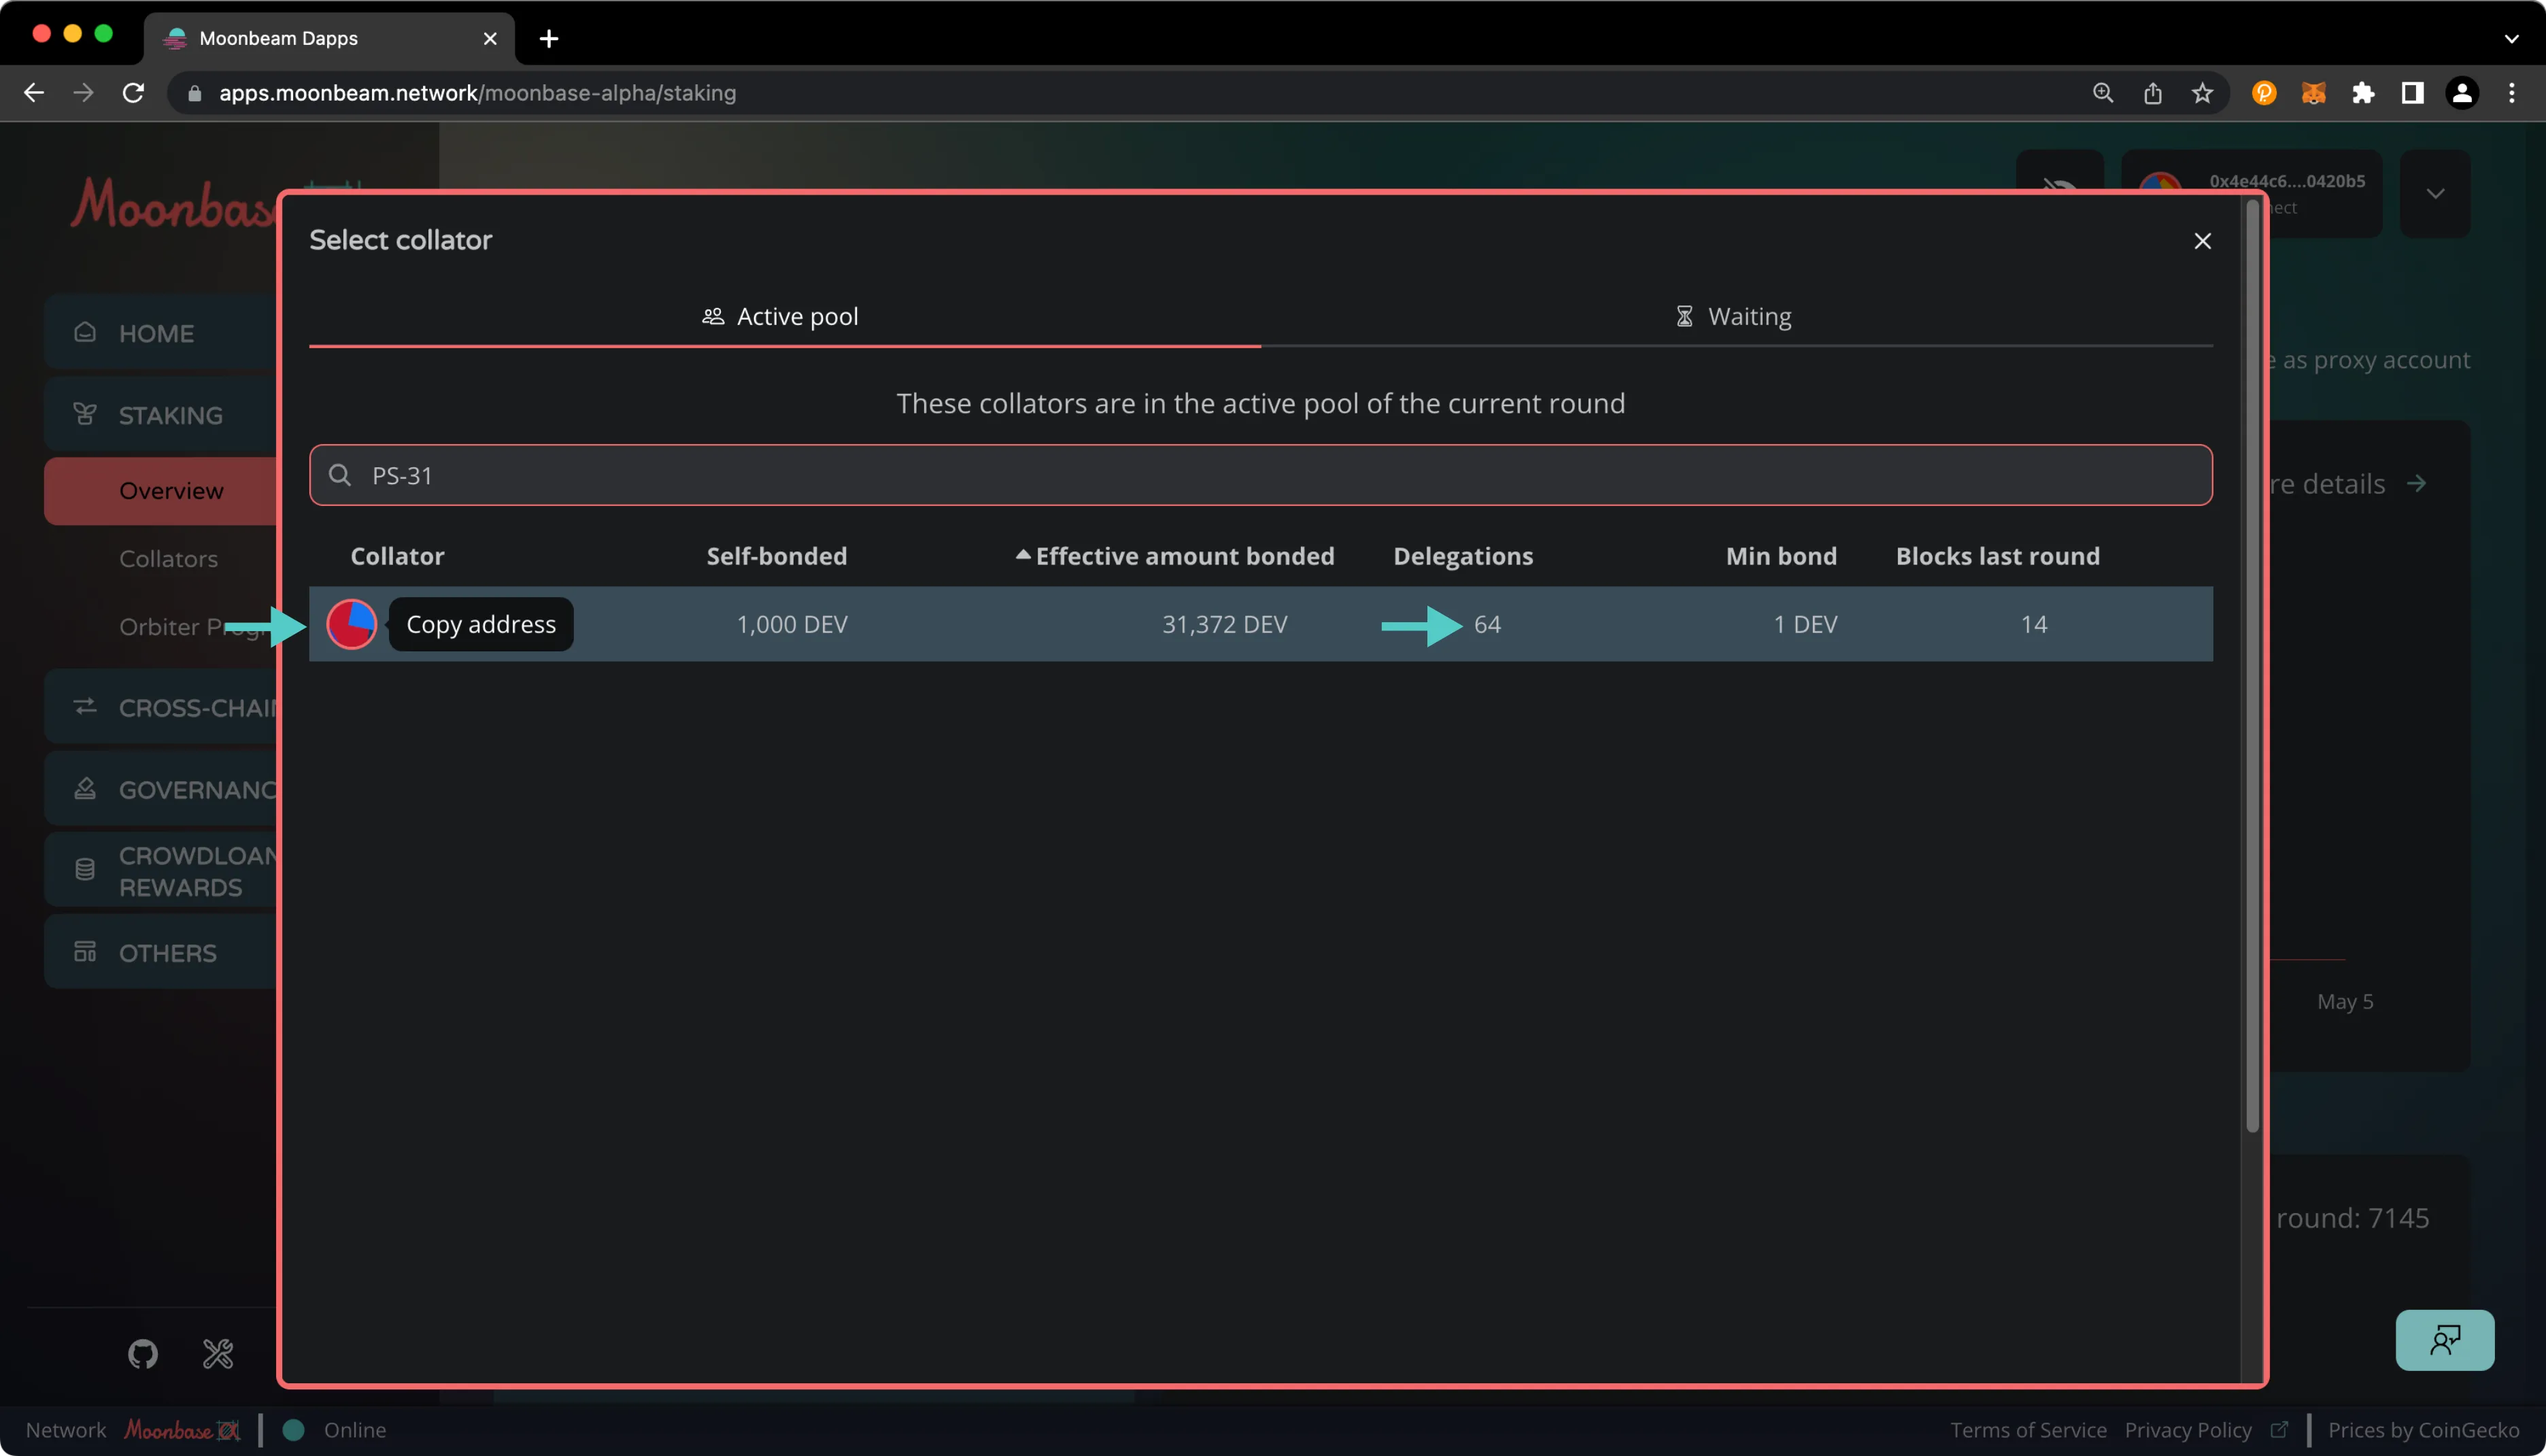
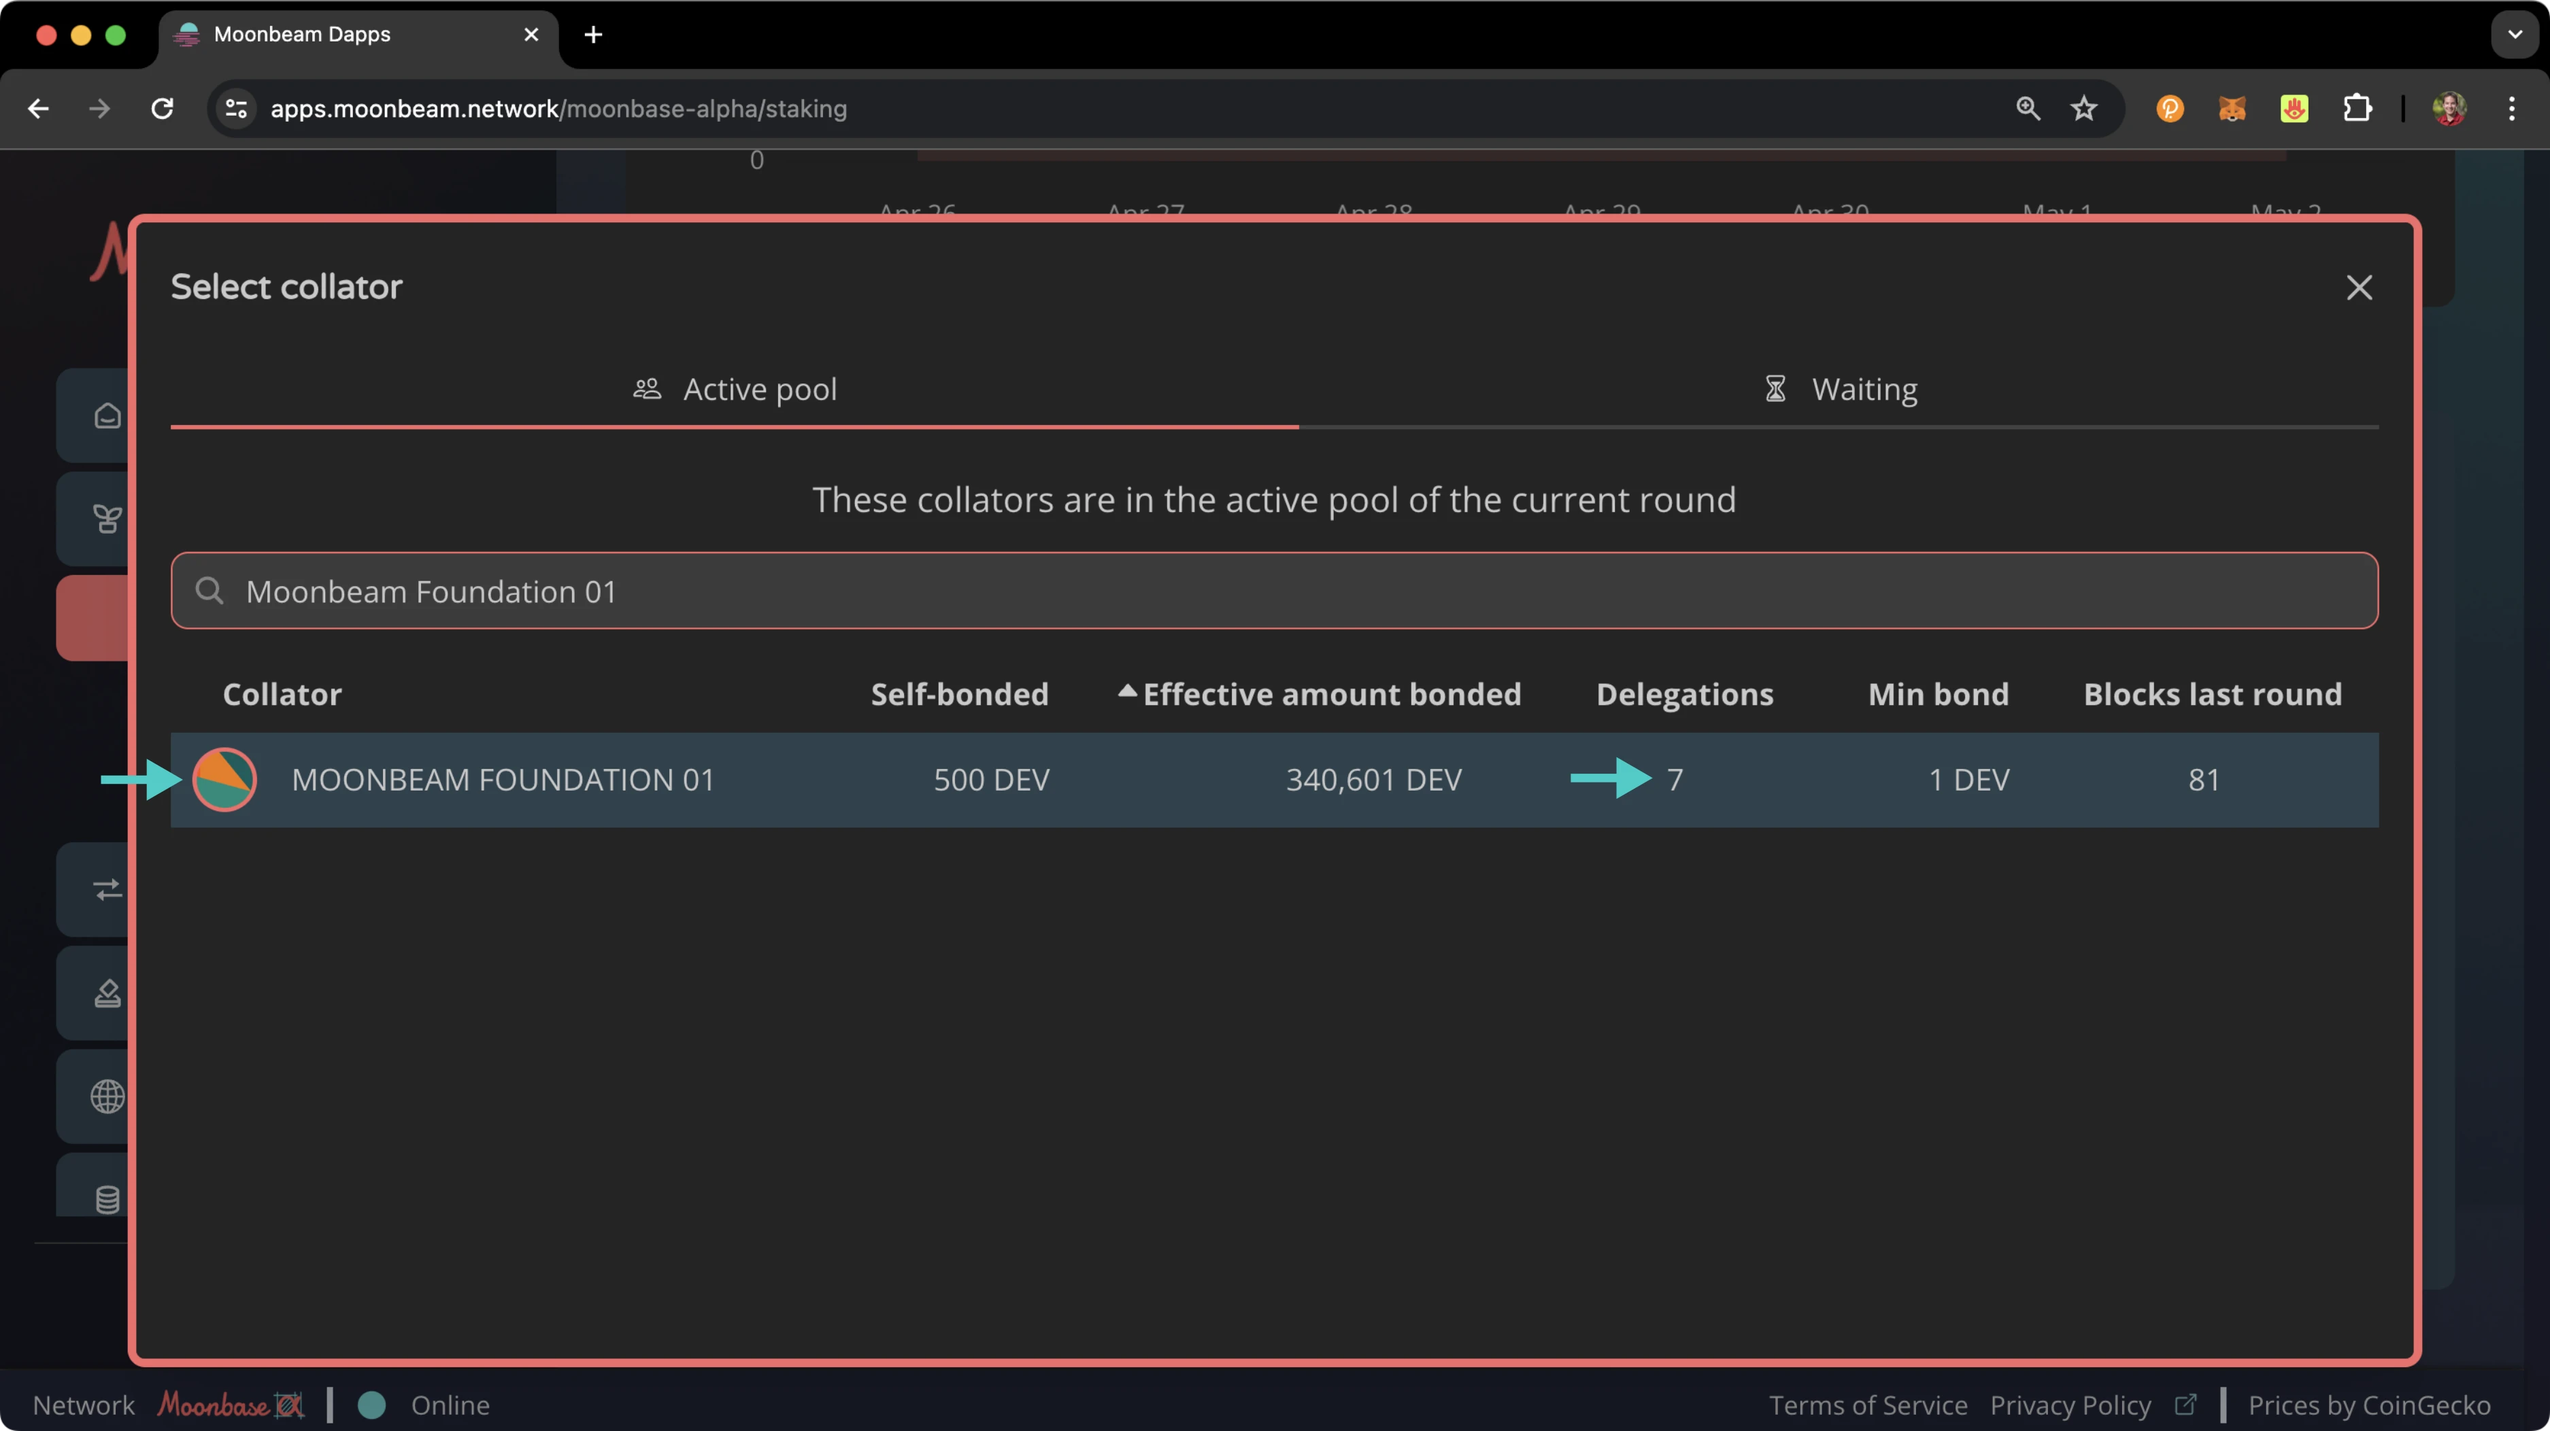
snippet updates etc

Changed region(s): [[0.0, 0.0, 1.0, 1.0], [0.6562, 0.2162, 0.6875, 0.247]]

diff --git a/.snippets/code/tutorials/interoperability/remote-staking/remote-staking.js b/.snippets/code/tutorials/interoperability/remote-staking/remote-staking.js
@@ -34,7 +34,7 @@ const instr3 = {
     requireWeightAtMost: { refTime: 40000000000n, proofSize: 900000n },
     call: {
       encoded:
[2 lines of base64/hex data omitted]
     },
   },
 };

diff --git a/tutorials/interoperability/remote-staking-xcm.md b/tutorials/interoperability/remote-staking-xcm.md
@@ -36,7 +36,7 @@ The script will return 32-byte and 20-byte addresses. We’re interested in the 
 
 ## Preparing to Stake on Moonbase Alpha {: #preparing-to-stake-on-moonbase-alpha }
 
-First and foremost, you’ll need the address of the collator you want to delegate to. To locate it, head to the [Moonbase Alpha Staking dApp](https://apps.moonbeam.network/moonbase-alpha/staking){target=\_blank} in a second window. Ensure you’re on the correct network, then press **Select a Collator**. Press the icon next to your desired collator to copy its address. You’ll also need to make a note of the number of delegations your collator has. The [Moonbeam Foundation 01 collator](https://moonbase.subscan.io/account/{{networks.moonbase.precompiles.staking}}){target=\_blank} shown below has `64` delegations at the time of writing.
+First and foremost, you’ll need the address of the collator you want to delegate to. To locate it, head to the [Moonbase Alpha Staking dApp](https://apps.moonbeam.network/moonbase-alpha/staking){target=\_blank} in a second window. Ensure you’re on the correct network, then press **Select a Collator**. Press the icon next to your desired collator to copy its address. You’ll also need to make a note of the number of delegations your collator has. The [Moonbeam Foundation 01 collator](https://moonbase.subscan.io/account/{{networks.moonbase.precompiles.staking}}){target=\_blank} shown below has `7` delegations at the time of writing.
 
 ![Moonbeam Network Apps Dashboard](/images/tutorials/interoperability/remote-staking-via-xcm/xcm-stake-2.webp)
 
